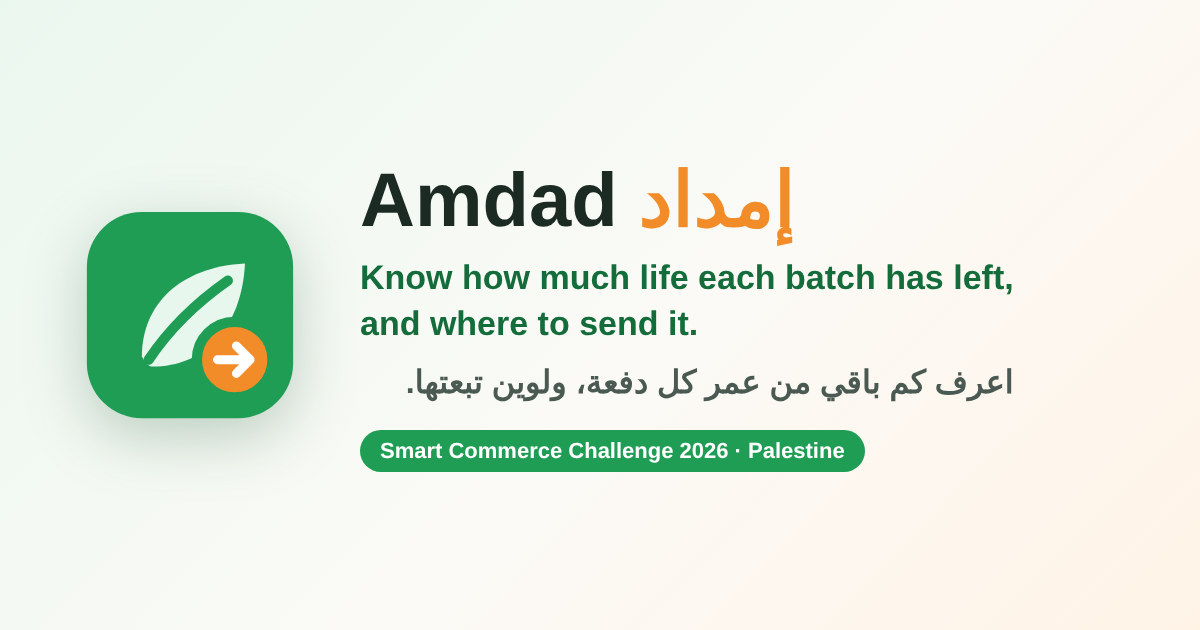
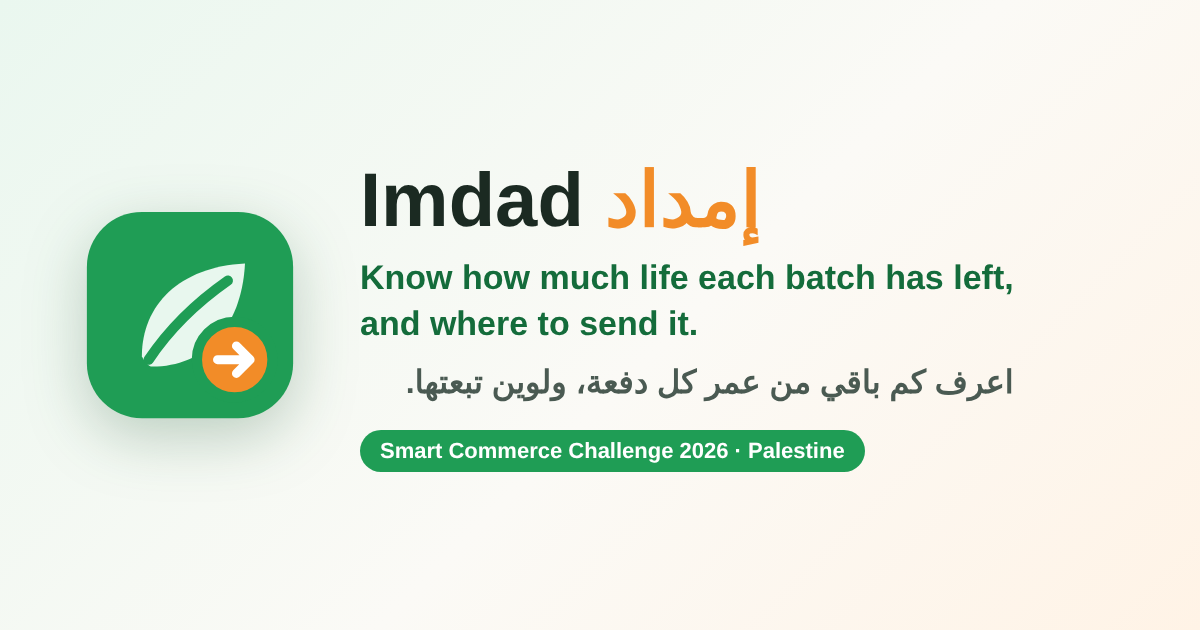
rename: Amdad -> Imdad across site, docs and assets; Waseem's role is Testing & QA
Links now point to github.com/RushdiJa/imdad and rushdija.github.io/imdad
(the repository is being renamed to imdad).

Changed region(s): [[0.2775, 0.2714, 0.6783, 0.3921]]

diff --git a/index.html b/index.html
@@ -6,23 +6,23 @@
   <title>إمداد | اعرف كم باقي من عمر كل دفعة</title>
   <meta name="description" data-i18n-attr="content:meta.description" content="إمداد: حسّاس يرافق كل شحنة ونموذج تعلّم آلي يقدّر العمر المتبقي لكل دفعة خضار وفواكه ويوصي بالزبون المناسب عبر واتساب. نموذج أولي — تحدي التجارة الذكية 2026.">
   <meta name="theme-color" content="#1f9d55">
-  <link rel="canonical" href="https://rushdija.github.io/amdad/">
+  <link rel="canonical" href="https://rushdija.github.io/imdad/">
 
   <!-- Open Graph / social previews -->
   <meta property="og:type" content="website">
-  <meta property="og:site_name" content="Amdad | إمداد">
-  <meta property="og:title" content="Amdad (إمداد): Know how much life each batch has left, and where to send it.">
+  <meta property="og:site_name" content="Imdad | إمداد">
+  <meta property="og:title" content="Imdad (إمداد): Know how much life each batch has left, and where to send it.">
   <meta property="og:description" content="Shelf-life tracking and smart allocation for fresh produce distributors in Palestine. اعرف كم باقي من عمر كل دفعة، ولوين تبعتها.">
-  <meta property="og:url" content="https://rushdija.github.io/amdad/">
-  <meta property="og:image" content="https://rushdija.github.io/amdad/assets/og-image.png">
+  <meta property="og:url" content="https://rushdija.github.io/imdad/">
+  <meta property="og:image" content="https://rushdija.github.io/imdad/assets/og-image.png">
   <meta property="og:image:width" content="1200">
   <meta property="og:image:height" content="630">
   <meta property="og:locale" content="ar_AR">
   <meta property="og:locale:alternate" content="en_US">
   <meta name="twitter:card" content="summary_large_image">
-  <meta name="twitter:title" content="Amdad (إمداد): Know how much life each batch has left">
+  <meta name="twitter:title" content="Imdad (إمداد): Know how much life each batch has left">
   <meta name="twitter:description" content="Shelf-life tracking and smart allocation for fresh produce distributors in Palestine.">
-  <meta name="twitter:image" content="https://rushdija.github.io/amdad/assets/og-image.png">
+  <meta name="twitter:image" content="https://rushdija.github.io/imdad/assets/og-image.png">
 
   <link rel="icon" type="image/svg+xml" href="assets/favicon.svg">
   <link rel="preconnect" href="https://fonts.googleapis.com">
@@ -36,7 +36,7 @@
   <!-- ============ Header ============ -->
   <header class="site-header">
     <div class="container header-inner">
-      <a class="brand" href="#top" aria-label="Amdad">
+      <a class="brand" href="#top" aria-label="Imdad">
         <img src="assets/logo.svg" alt="" width="36" height="36">
         <span class="brand-name" data-i18n="brand">إمداد</span>
       </a>
@@ -316,7 +316,7 @@
             </div>
 
             <p class="shade-compare" id="r-shade"></p>
-            <p class="hint"><span data-i18n="calc.disclaimer"></span> <a href="https://github.com/RushdiJa/amdad/blob/main/docs/model.md" rel="noopener" data-i18n="calc.modelLink"></a></p>
+            <p class="hint"><span data-i18n="calc.disclaimer"></span> <a href="https://github.com/RushdiJa/imdad/blob/main/docs/model.md" rel="noopener" data-i18n="calc.modelLink"></a></p>
           </div>
         </div>
       </div>
@@ -440,7 +440,7 @@
           <li class="member"><span class="avatar" aria-hidden="true">E</span><strong data-i18n="team.eman"></strong><span data-i18n="role.business"></span></li>
           <li class="member"><span class="avatar" aria-hidden="true">R</span><strong data-i18n="team.rushdi"></strong><span data-i18n="role.mvp"></span></li>
           <li class="member"><span class="avatar" aria-hidden="true">M</span><strong data-i18n="team.melissa"></strong><span data-i18n="role.design"></span></li>
-          <li class="member"><span class="avatar" aria-hidden="true">W</span><strong data-i18n="team.waseem"></strong><span data-i18n="role.ops"></span></li>
+          <li class="member"><span class="avatar" aria-hidden="true">W</span><strong data-i18n="team.waseem"></strong><span data-i18n="role.qa"></span></li>
         </ul>
       </div>
     </section>
@@ -453,7 +453,7 @@
         <img src="assets/logo.svg" alt="" width="32" height="32">
         <span data-i18n="footer.name"></span>
       </div>
-      <a class="footer-link" href="https://github.com/RushdiJa/amdad" rel="noopener">
+      <a class="footer-link" href="https://github.com/RushdiJa/imdad" rel="noopener">
         <svg viewBox="0 0 16 16" width="18" height="18" aria-hidden="true"><path fill="currentColor" d="M8 0C3.58 0 0 3.58 0 8c0 3.54 2.29 6.53 5.47 7.59.4.07.55-.17.55-.38 0-.19-.01-.82-.01-1.49-2.01.37-2.53-.49-2.69-.94-.09-.23-.48-.94-.82-1.13-.28-.15-.68-.52-.01-.53.63-.01 1.08.58 1.23.82.72 1.21 1.87.87 2.33.66.07-.52.28-.87.51-1.07-1.78-.2-3.64-.89-3.64-3.95 0-.87.31-1.59.82-2.15-.08-.2-.36-1.02.08-2.12 0 0 .67-.21 2.2.82.64-.18 1.32-.27 2-.27.68 0 1.36.09 2 .27 1.53-1.04 2.2-.82 2.2-.82.44 1.1.16 1.92.08 2.12.51.56.82 1.27.82 2.15 0 3.07-1.87 3.75-3.65 3.95.29.25.54.73.54 1.48 0 1.07-.01 1.93-.01 2.2 0 .21.15.46.55.38A8.013 8.013 0 0 0 16 8c0-4.42-3.58-8-8-8z"/></svg>
         <span data-i18n="footer.repo"></span>
       </a>

diff --git a/js/i18n.js b/js/i18n.js
@@ -1,5 +1,5 @@
 /**
- * Amdad — Translations (Arabic default, RTL / English, LTR)
+ * Imdad — Translations (Arabic default, RTL / English, LTR)
  * ------------------------------------------------------------------
  * All user-facing text lives here. HTML elements use:
  *   data-i18n="key"             → textContent
@@ -10,7 +10,7 @@
 (function (global) {
   'use strict';
 
-  var STORAGE_KEY = 'amdad-lang';
+  var STORAGE_KEY = 'imdad-lang';
   var DEFAULT_LANG = 'ar';
 
   var translations = {
@@ -189,7 +189,7 @@
       'team.waseem': 'وسيم يحيى',
       'role.research': 'البحث',
       'role.design': 'تصميم UI/UX',
-      'role.ops': 'الاختبار والعمليات',
+      'role.qa': 'الاختبار وضمان الجودة (QA)',
       'role.business': 'الأعمال والتسويق',
       'role.mvp': 'تطوير النموذج الأولي',
 
@@ -238,10 +238,10 @@
     },
 
     en: {
-      'meta.title': 'Amdad | Know how much life each batch has left',
-      'meta.description': 'Amdad: a sensor travels with each shipment and an ML model estimates each produce batch\'s remaining shelf life, then recommends the right customer on WhatsApp. MVP, Smart Commerce Challenge 2026.',
+      'meta.title': 'Imdad | Know how much life each batch has left',
+      'meta.description': 'Imdad: a sensor travels with each shipment and an ML model estimates each produce batch\'s remaining shelf life, then recommends the right customer on WhatsApp. MVP, Smart Commerce Challenge 2026.',
       'skip': 'Skip to content',
-      'brand': 'Amdad',
+      'brand': 'Imdad',
       'nav.problem': 'Problem',
       'nav.customer': 'Customer',
       'nav.how': 'How it works',
@@ -282,7 +282,7 @@
       'problem.f4': '<strong>Supply tender, Al-Ghad Al-Mushriq, Aug 2026:</strong> the supplier must replace spoiled goods within 24 hours at its own cost, and payment is deferred. The loss from a bad batch falls on the distributor.',
 
       'how.kicker': 'The solution',
-      'how.title': 'How Amdad works',
+      'how.title': 'How Imdad works',
       'how.intro': 'Three simple steps, without changing how the distributor works.',
       'how.s1.title': 'A sensor travels with the shipment',
       'how.s1.text': 'A small, reusable sensor logs temperature and time from harvest to delivery, including checkpoint waits.',
@@ -391,11 +391,11 @@
       'wa.kicker': 'Preview',
       'wa.title': 'The message the distributor receives',
       'wa.intro': 'Updates live from the calculator above, in the selected language.',
-      'wa.contact': 'Amdad',
+      'wa.contact': 'Imdad',
       'wa.status': 'Business account',
       'wa.today': 'Today',
       'wa.inputPlaceholder': 'Message',
-      'wa.msg.header': '📦 *Amdad* | Batch report',
+      'wa.msg.header': '📦 *Imdad* | Batch report',
       'wa.msg.product': '{emoji} {product}, {quality} quality',
       'wa.msg.remaining': '⏳ Remaining shelf life: *{days} days* {dot} ({cat})',
       'wa.msg.checkpoint': '🌡 Truck temperature while waiting ({cp}): ~{temp}°C for {hours} h',
@@ -404,7 +404,7 @@
       'wa.msg.footer': 'Reply 1 to confirm, or 2 for trip details.',
 
       'team.kicker': 'Team',
-      'team.title': 'The team behind Amdad',
+      'team.title': 'The team behind Imdad',
       'team.aram': 'Aram Odeh',
       'team.eman': 'Eman Jallad',
       'team.rushdi': 'Rushdi Jallad',
@@ -412,7 +412,7 @@
       'team.waseem': 'Waseem Yahya',
       'role.research': 'Research',
       'role.design': 'UI/UX Design',
-      'role.ops': 'Testing & Operations',
+      'role.qa': 'Testing & QA',
       'role.business': 'Business & Marketing',
       'role.mvp': 'MVP Development',
 
@@ -455,7 +455,7 @@
       'pilot.a4': 'Distributors have customers with different storage times, so allocating by shelf life makes a real difference.',
       'pilot.a5': 'Traders will follow the recommendations and report what happened to each batch, so the model keeps improving.',
 
-      'footer.name': 'Amdad, Smart Commerce Challenge 2026',
+      'footer.name': 'Imdad, Smart Commerce Challenge 2026',
       'footer.repo': 'Source on GitHub',
       'footer.disclaimer': 'Demo estimates use a simplified scientific model with sample values. The real product will be calibrated with sensor data from Palestinian trips.'
     }
@@ -522,7 +522,7 @@
 
   current = loadLang();
 
-  global.AmdadI18n = {
+  global.ImdadI18n = {
     translations: translations,
     t: t,
     apply: apply,

diff --git a/js/app.js b/js/app.js
@@ -1,5 +1,5 @@
 /**
- * Amdad — UI wiring
+ * Imdad — UI wiring
  * ------------------------------------------------------------------
  * Connects the form inputs to the model (js/model.js), renders the
  * results, the SVG bar chart, the allocation demo (js/allocation.js)
@@ -8,9 +8,9 @@
 (function () {
   'use strict';
 
-  var I18n = window.AmdadI18n;
-  var Model = window.AmdadModel;
-  var Alloc = window.AmdadAllocation;
+  var I18n = window.ImdadI18n;
+  var Model = window.ImdadModel;
+  var Alloc = window.ImdadAllocation;
   var t = I18n.t;
 
   var $ = function (sel, root) { return (root || document).querySelector(sel); };

diff --git a/js/allocation.js b/js/allocation.js
@@ -1,5 +1,5 @@
 /**
- * Amdad — Batch allocation (FEFO: First Expired, First Out)
+ * Imdad — Batch allocation (FEFO: First Expired, First Out)
  * ------------------------------------------------------------------
  * Goal: send each batch to a customer who will sell it BEFORE it spoils.
  *
@@ -88,7 +88,7 @@
     return { assignments: assignments, mismatches: mismatches };
   }
 
-  global.AmdadAllocation = {
+  global.ImdadAllocation = {
     SAMPLE_BATCHES: SAMPLE_BATCHES,
     SAMPLE_CUSTOMERS: SAMPLE_CUSTOMERS,
     allocate: allocate,

diff --git a/js/model.js b/js/model.js
@@ -1,5 +1,5 @@
 /**
- * Amdad — Shelf-life model (runs entirely in the browser)
+ * Imdad — Shelf-life model (runs entirely in the browser)
  * ------------------------------------------------------------------
  * A simplified temperature–time model based on the Q10 rule:
  * the rate of quality loss in fresh produce speeds up roughly
@@ -179,7 +179,7 @@
     };
   }
 
-  global.AmdadModel = {
+  global.ImdadModel = {
     T_REF: T_REF,
     Q10: Q10,
     PRODUCTS: PRODUCTS,

diff --git a/css/style.css b/css/style.css
@@ -1,5 +1,5 @@
 /* ==========================================================================
-   Amdad — styles (mobile-first, RTL/LTR via logical properties)
+   Imdad — styles (mobile-first, RTL/LTR via logical properties)
    ========================================================================== */
 
 :root {

diff --git a/README.md b/README.md
@@ -1,8 +1,8 @@
 <p align="center">
-  <img src="assets/logo.svg" alt="Amdad logo" width="96" height="96">
+  <img src="assets/logo.svg" alt="Imdad logo" width="96" height="96">
 </p>
 
-<h1 align="center">Amdad · إمداد</h1>
+<h1 align="center">Imdad · إمداد</h1>
 
 <p align="center">
   <strong>Know how much life each batch has left, and where to send it.</strong><br>
@@ -10,13 +10,13 @@
 </p>
 
 <p align="center">
-  <a href="https://rushdija.github.io/amdad/"><img alt="Live demo" src="https://img.shields.io/badge/live%20demo-GitHub%20Pages-1f9d55?style=for-the-badge"></a>
+  <a href="https://rushdija.github.io/imdad/"><img alt="Live demo" src="https://img.shields.io/badge/live%20demo-GitHub%20Pages-1f9d55?style=for-the-badge"></a>
   <img alt="License: MIT" src="https://img.shields.io/badge/license-MIT-f28c28?style=for-the-badge">
   <img alt="No build step" src="https://img.shields.io/badge/stack-HTML%20%7C%20CSS%20%7C%20JS-1b2a22?style=for-the-badge">
 </p>
 
 <p align="center">
-  <a href="https://rushdija.github.io/amdad/"><strong>🌐 Live demo</strong></a> ·
+  <a href="https://rushdija.github.io/imdad/"><strong>🌐 Live demo</strong></a> ·
   <a href="README.ar.md">🇵🇸 اقرأ بالعربية</a> ·
   <a href="docs/model.md">📐 Model</a> ·
   <a href="docs/roadmap.md">🗺 Roadmap</a>
@@ -24,7 +24,7 @@
 
 ---
 
-Amdad is a startup in the **Smart Commerce Challenge 2026 (Palestine)**, challenge area **Logistics & Supply Chain**. This repository is the frontend-only MVP: a bilingual landing page with interactive demos of the shelf-life estimate, the batch allocation and the WhatsApp recommendation.
+Imdad is a startup in the **Smart Commerce Challenge 2026 (Palestine)**, challenge area **Logistics & Supply Chain**. This repository is the frontend-only MVP: a bilingual landing page with interactive demos of the shelf-life estimate, the batch allocation and the WhatsApp recommendation.
 
 ## The problem
 
@@ -107,13 +107,13 @@ A "virtual sensor" estimates the truck's inside temperature from the outside tem
 Clone the repository and open `index.html` in your browser. That's it.
 
 ```bash
-git clone https://github.com/RushdiJa/amdad.git
+git clone https://github.com/RushdiJa/imdad.git
 ```
 
 ## Project structure
 
 ```
-amdad/
+imdad/
 ├── index.html            # single-page site
 ├── css/style.css         # mobile-first styles, RTL/LTR
 ├── js/i18n.js            # all Arabic & English text + language switching
@@ -165,7 +165,7 @@ Details: [docs/roadmap.md](docs/roadmap.md)
 | Eman Jallad | Business & Marketing |
 | Rushdi Jallad | MVP Development |
 | Melissa Odeh | UI/UX Design |
-| Waseem Yahya | Testing & Operations |
+| Waseem Yahya | Testing & QA |
 
 ## ⚠ Disclaimer
 
@@ -173,7 +173,7 @@ Demo estimates use a **simplified scientific model with sample values**. They ar
 
 ## Contributing & license
 
-See [CONTRIBUTING.md](CONTRIBUTING.md). Released under the [MIT License](LICENSE) © 2026 Amdad Team.
+See [CONTRIBUTING.md](CONTRIBUTING.md). Released under the [MIT License](LICENSE) © 2026 Imdad Team.
 
 ---
 

diff --git a/README.ar.md b/README.ar.md
@@ -4,19 +4,19 @@
   <img src="assets/logo.svg" alt="شعار إمداد" width="96" height="96">
 </p>
 
-<h1 align="center">إمداد · Amdad</h1>
+<h1 align="center">إمداد · Imdad</h1>
 
 <p align="center">
   <strong>اعرف كم باقي من عمر كل دفعة، ولوين تبعتها.</strong>
 </p>
 
 <p align="center">
-  <a href="https://rushdija.github.io/amdad/"><img alt="العرض المباشر" src="https://img.shields.io/badge/live%20demo-GitHub%20Pages-1f9d55?style=for-the-badge"></a>
+  <a href="https://rushdija.github.io/imdad/"><img alt="العرض المباشر" src="https://img.shields.io/badge/live%20demo-GitHub%20Pages-1f9d55?style=for-the-badge"></a>
   <img alt="الرخصة: MIT" src="https://img.shields.io/badge/license-MIT-f28c28?style=for-the-badge">
 </p>
 
 <p align="center">
-  <a href="https://rushdija.github.io/amdad/"><strong>🌐 العرض المباشر</strong></a> ·
+  <a href="https://rushdija.github.io/imdad/"><strong>🌐 العرض المباشر</strong></a> ·
   <a href="README.md">🇬🇧 English</a> ·
   <a href="docs/model.md">📐 النموذج</a> ·
   <a href="docs/roadmap.md">🗺 خارطة الطريق</a>
@@ -113,7 +113,7 @@ remaining_days = base_shelf_life × quality_factor − Σ consumed_days
 <div dir="ltr">
 
 ```bash
-git clone https://github.com/RushdiJa/amdad.git
+git clone https://github.com/RushdiJa/imdad.git
 ```
 
 </div>
@@ -123,7 +123,7 @@ git clone https://github.com/RushdiJa/amdad.git
 <div dir="ltr">
 
 ```
-amdad/
+imdad/
 ├── index.html
 ├── css/style.css
 ├── js/i18n.js            # all Arabic & English text
@@ -176,7 +176,7 @@ amdad/
 | إيمان الجلاد | الأعمال والتسويق |
 | رشدي الجلاد | تطوير النموذج الأولي |
 | ميليسا عودة | تصميم UI/UX |
-| وسيم يحيى | الاختبار والعمليات |
+| وسيم يحيى | الاختبار وضمان الجودة (QA) |
 
 ## ⚠ تنبيه
 

diff --git a/CONTRIBUTING.md b/CONTRIBUTING.md
@@ -1,14 +1,14 @@
-# Contributing to Amdad
+# Contributing to Imdad
 
-Thanks for your interest in Amdad (إمداد)! This is a small, static MVP, so contributing is simple.
+Thanks for your interest in Imdad (إمداد)! This is a small, static MVP, so contributing is simple.
 
 ## Run locally
 
 No build step and no dependencies. Clone the repo and open `index.html` in a browser:
 
 ```bash
-git clone https://github.com/RushdiJa/amdad.git
-cd amdad
+git clone https://github.com/RushdiJa/imdad.git
+cd imdad
 ```
 
 Then open `index.html` directly, or serve the folder (optional) with any static server, e.g. `python3 -m http.server 8000`.

diff --git a/docs/model.md b/docs/model.md
@@ -1,4 +1,4 @@
-# Amdad shelf-life model
+# Imdad shelf-life model
 
 > **All numbers on this page are sample values for demonstration.** The real product will be calibrated with sensor data from Palestinian trips.
 

diff --git a/docs/roadmap.md b/docs/roadmap.md
@@ -1,4 +1,4 @@
-# Amdad roadmap
+# Imdad roadmap
 
 ## Phase 0: MVP (this repository) ✅
 
